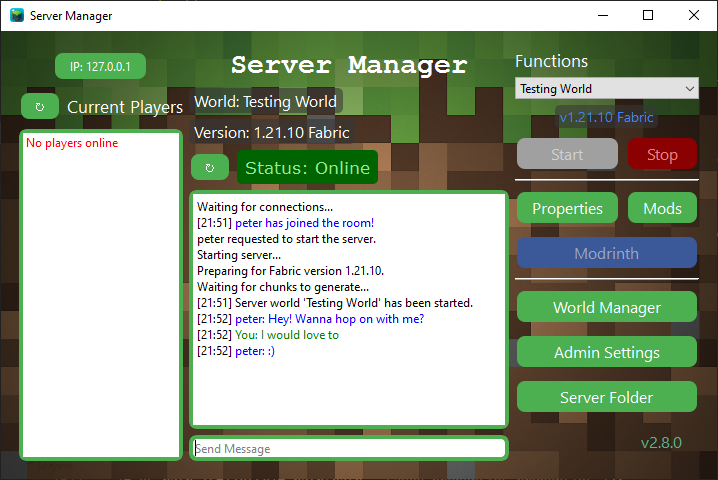
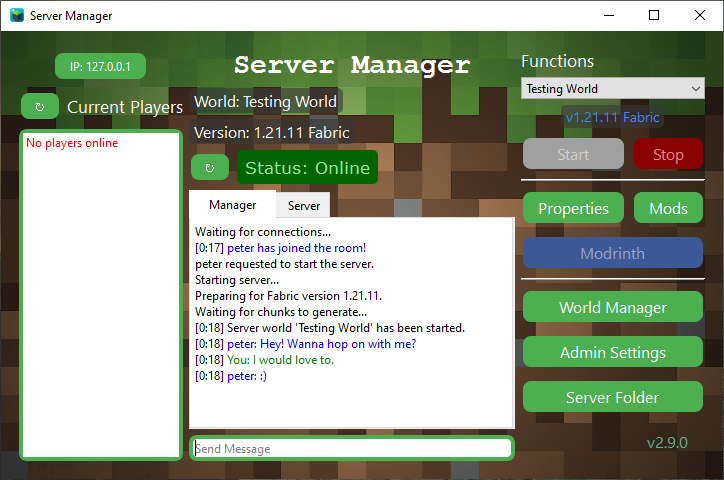
Older versions can now see logs, but not chat with server. Also updated README

diff --git a/manager_host.py b/manager_host.py
@@ -22,7 +22,7 @@ import file_funcs
 import websock_mgmt
 import html
 
-TESTING = True
+TESTING = False
 VERSION = "v2.9.0"
 
 if TESTING:
@@ -1931,9 +1931,11 @@ class ServerManagerApp(QMainWindow):
         status = self.query_status()
         self.set_status(status)
         self.send_data("status", status)
-        if self.status == "online" and self.is_api_compatible(self.worlds[self.world]["version"]):
-            if not self.bus and self.bus_shutdown_complete.is_set():
-                self.create_bus(self.get_api_version(self.worlds[self.world]["version"]))
+        if self.status == "online":
+            if self.is_api_compatible(self.worlds[self.world]["version"]):
+                if not self.bus and self.bus_shutdown_complete.is_set():
+                    self.create_bus(self.get_api_version(self.worlds[self.world]["version"]))
+
             self.chat_tabs.tabBar().show()
             if not self.server_chat_thread or not self.server_chat_thread.is_alive():
                 self.server_chat_thread = threading.Thread(target=self.check_for_server_messages, args=(self.curr_players,))
@@ -1943,6 +1945,7 @@ class ServerManagerApp(QMainWindow):
                 if not self.chat_toggle.isChecked():
                     self.toggle_only_chat.set()
         else:
+            self.message_entry.show()
             self.chat_tabs.tabBar().hide()
             self.chat_tabs.setCurrentIndex(0)
             self.server_chat.clear()
@@ -2861,9 +2864,13 @@ class ServerManagerApp(QMainWindow):
     def switched_tabs(self):
         if self.chat_tabs.currentIndex() == 1:
             self.chat_toggle.show()
+            if not self.is_api_compatible(self.worlds[self.world]["version"]):
+                self.message_entry.hide()
+            
             self.server_chat.verticalScrollBar().setValue(self.server_chat.verticalScrollBar().maximumHeight())
         else:
             self.chat_toggle.hide()
+            self.message_entry.show()
     
     def toggled_chat_mode(self):
         self.server_chat.clear()

diff --git a/manager.py b/manager.py
@@ -12,7 +12,7 @@ from PyQt6.QtGui import QFont, QIcon, QPixmap, QPainter, QPaintEvent, QDesktopSe
 from PyQt6.QtCore import Qt, QRect, QThread, pyqtSignal, QObject, QUrl
 
 TESTING = False
-VERSION = "v2.8.1"
+VERSION = "v2.9.0"
 
 if TESTING:
     STYLE_PATH = "Styles"

diff --git a/README.md b/README.md
@@ -32,6 +32,7 @@ The host has the ability to
   - Add usernames to the whitelist.
   - Set the view distance.
   - Set the simulation distance.
+- See all server LOG info.
 
 ### Extra Features
 For all versions starting at snapshot 25w35a (1.21.9), servers provide an API to receive notifications from the server, and also to send commands to the server. This means there are more features available for those worlds.
@@ -39,6 +40,7 @@ For all versions starting at snapshot 25w35a (1.21.9), servers provide an API to
 - The host can click player's names in the list to perform specific actions on them such as whitelisting, kicking, etc.
 - The host is informed each time the whitelist, ban, or op status of a player changes.
 - Toggling the whitelist and changing the view/simulation distance through the GUI immediately applies the changes to the server world through the API.
+- Chat with and see chats in the game chat.
 
 ## Host Instructions
 If you are hosting the server on your computer, you must have your `Manager_host` program running for others to be able to control the server. You will need the latest Java Runtime (JRE) in order to run the server, so download one if you do not already have it. Different versions require different minimum JRE versions. You can download the latest JRE from [Adoptium Temurin](https://www.adoptium.net/temurin/releases/).  
